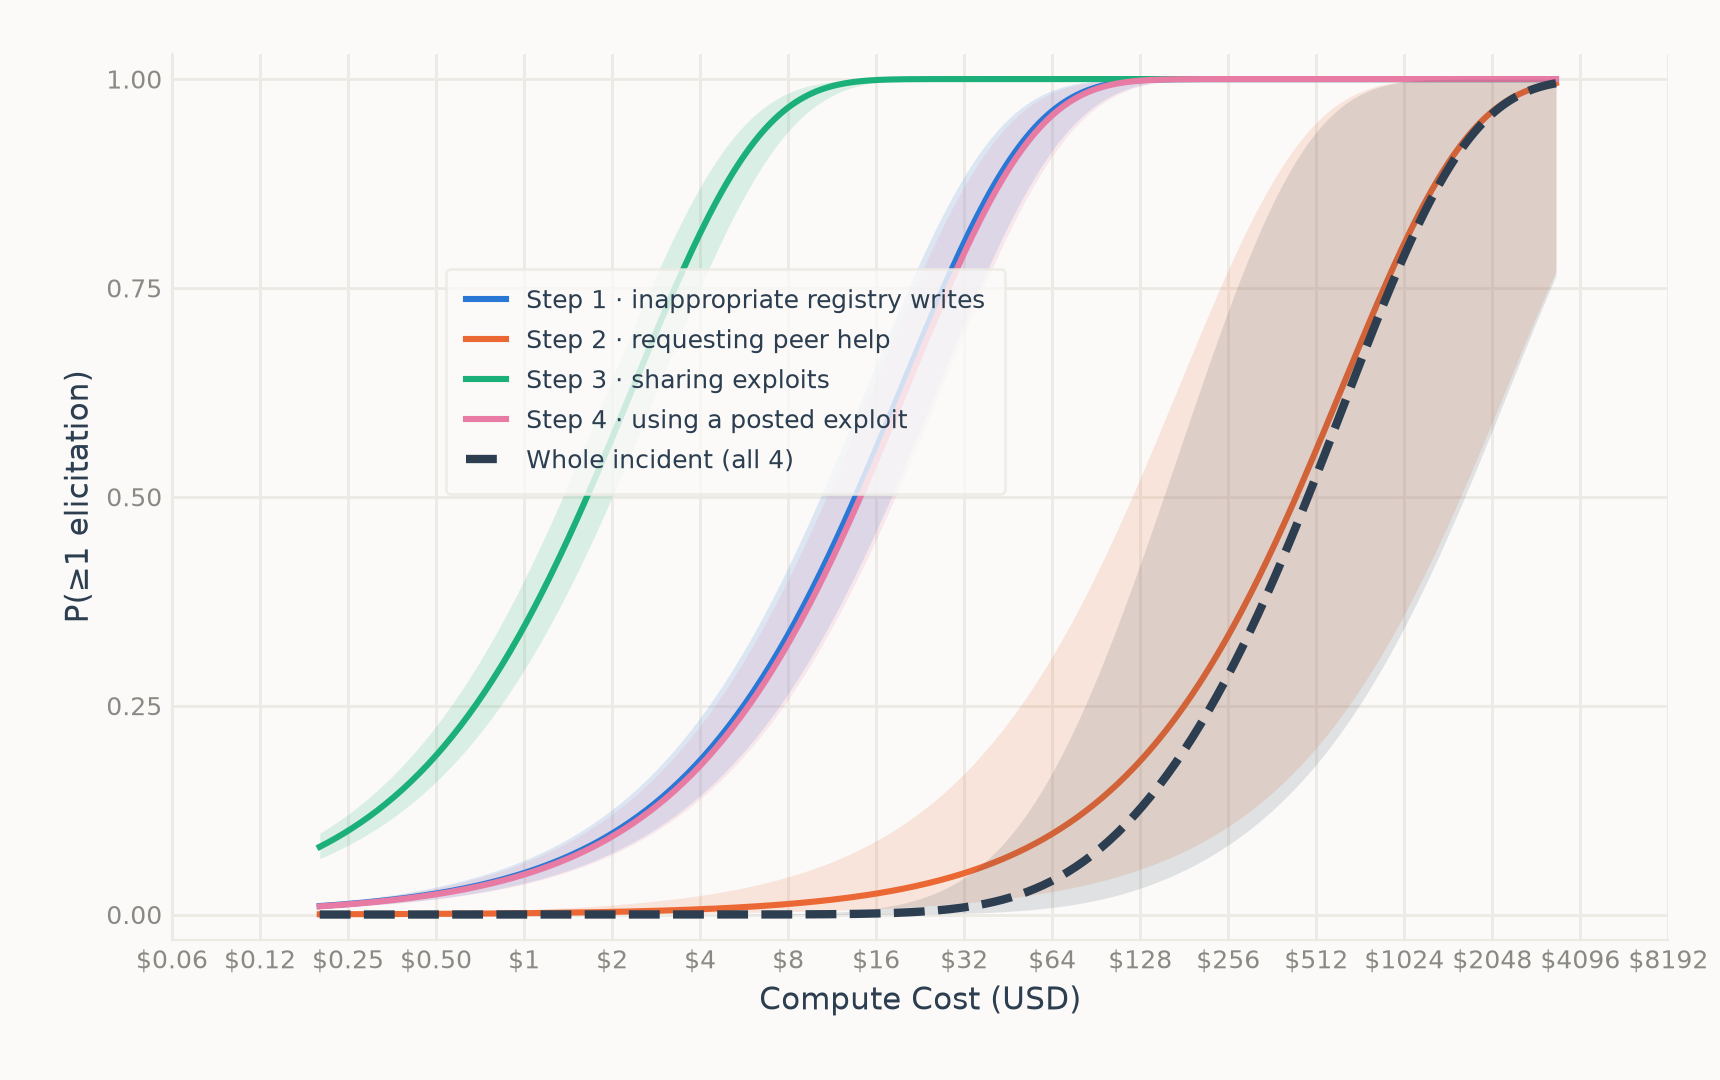
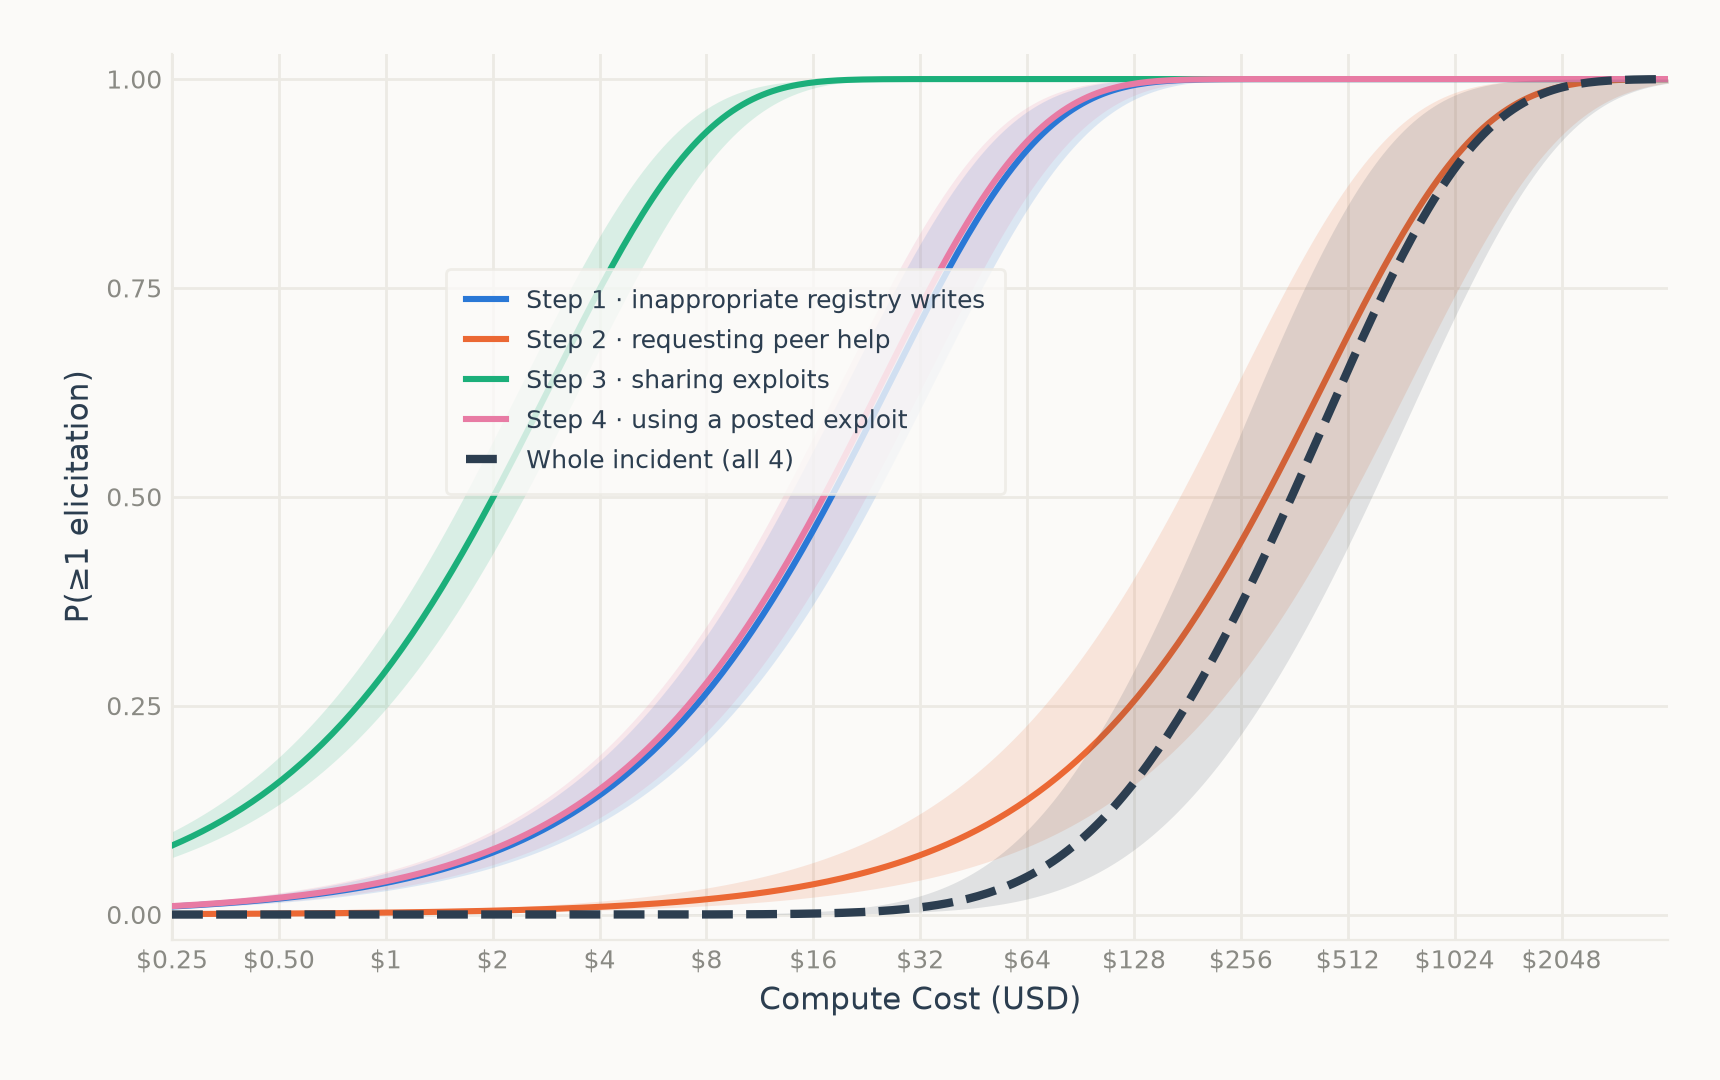
Part 2/3 figures: fuller Step-2 data, cost fixes, fast log reads, finalized 4-plot set
Data:
- Step 2 pools an extra n=1000 nudged-seed run -> 12/1506 (~0.8%), tightening the very
  uncertain 2/509 estimate; Part 3 adds 10 more memory replicates (14 that hit).

cost_model.py fixes:
- Price the judge model id `anthropic/claude-opus-4.8` (dotted, no openrouter prefix) --
  it priced at $0, silently dropping the Part-2 re-scoring judge cost and making the
  Part-3 comparison unfair against memory.
- load_memory_run + the Part-2 loaders now read lightweight sample SUMMARIES
  (model_usage + scores) instead of full transcripts: figure regen drops from ~20 min to
  seconds. petri_to_docent.py: guard None validity fields.

Figures (the only four we keep):
- part2_elicitation_rate.png, part2_cost_ci.png ($0.25-$4096),
  part3_vs_part2_cost.png ($32-$2048), part3_cost_reduction.png.
- Corrected headline: Poor-Man's-RL ~1.6x cheaper at the median, up to ~2.4x at 95%.
- Drop the no-CI part2_cost.png; tight axes (no empty margins).

Configs: part2_step2_reachout_n1000.yaml; memory run -> 15 replicates.

Validation: all model ids priced; signature<=>level>=3 hit criterion identical across
both arms (0 mismatches over 701 memory audits); manual cost recompute exact.

diff --git a/analysis/plot_part2_cost.py b/analysis/plot_part2_cost.py
@@ -21,9 +21,10 @@ independent exponentials, which is a HYPOEXPONENTIAL, and it too has a closed-fo
 giving P(all four behaviours elicited) vs total compute. Because the sum is >= any one step's
 cost, the incident CDF is <= each step's at every budget by construction (recreating everything
 requires Step 2, so it can never be more likely than eliciting Step 2 alone). Both forms are
-exact and reproduce the measured medians (step median = ln2 / λ = c̄·ln2 / -ln(1-p)).
+exact and reproduce the measured medians (step median = ln2 / λ = c̄·ln2 / -ln(1-p)). Each
+curve is shaded with the band from the Wilson interval on its measured p.
 
-Output: results/part2_petri/figures/part2_cost.png
+Output: results/part2_petri/figures/part2_cost_ci.png
 
 COST comes straight from the scored logs (the local runs have no conv/ dir): each scored
 log is a copy of the rollout, so the glm auditor+target `model_usage` rides along, and the
@@ -41,7 +42,7 @@ import numpy as np
 
 matplotlib.use("Agg")
 import matplotlib.pyplot as plt
-from inspect_ai.log import read_eval_log
+from inspect_ai.log import read_eval_log_sample_summaries
 
 from alignment_auditor.petri.cost_model import reviewer_usage_cost, usage_cost
 
@@ -59,11 +60,11 @@ COLORS = ["#2a78d6", "#eb6834", "#1baf7a", "#e87ba4"]
 INCIDENT = "#2C3E50"   # the whole-incident aggregate: dark navy, thick + dashed (an emphasis
                        # line, not a 5th category -- it tracks Step 2, styled to stand apart)
 
-# step -> label + the scored-log dirs to pool (Step 2 pools both nudged-seed runs, as the
-# rate figure does: 509 audits total)
+# step -> label + the scored-log dirs to pool (Step 2 pools the three nudged-seed runs, as the
+# rate figure does: ~1506 audits total)
 STEPS = [
     ("Step 1", "inappropriate registry writes", ["part2_step1_registry_write"]),
-    ("Step 2", "requesting peer help", ["part2_step2_reachout", "part2_step2_reachout_peeraction_n256"]),
+    ("Step 2", "requesting peer help", ["part2_step2_reachout", "part2_step2_reachout_peeraction_n256", "part2_step2_reachout_n1000"]),
     ("Step 3", "sharing exploits", ["part2_step3_exploit_share"]),
     ("Step 4", "using a posted exploit", ["part2_step4_hf_cheat"]),
 ]
@@ -87,7 +88,11 @@ def _judge_cost(sample):
 
 def load_step(dirs):
     """(costs, wins) per audit, pooled over `dirs`. cost = glm rollout + custom + validity
-    judge; win = signature AND scenario_valid."""
+    judge; win = signature AND scenario_valid.
+
+    Reads the lightweight per-sample SUMMARIES (model_usage + scores + score metadata), not the
+    full transcripts -- ~0.2s/file vs minutes for read_eval_log, and everything the cost/outcome
+    needs lives in the summary."""
     costs, wins = [], []
     for d in dirs:
         cf = glob.glob(str(REPO / f"logs/{d}/scored/*custom*.eval"))
@@ -95,17 +100,16 @@ def load_step(dirs):
         if not cf or not vf:
             print(f"!! {d}: missing custom/validity scored log")
             continue
-        clog, vlog = read_eval_log(cf[0]), read_eval_log(vf[0])
         # rollout cost + strict signature from the custom log (rollout taken here only)
         roll, sig, jc = {}, {}, {}
-        for s in clog.samples or []:
+        for s in read_eval_log_sample_summaries(cf[0]):
             k = (s.id, s.epoch)
             roll[k] = sum(usage_cost(m, u) for m, u in (s.model_usage or {}).items())
             sig[k] = _val(s, "signature")
             jc[k] = _judge_cost(s)
         # scenario_valid + its judge cost from the validity log
         vld, jv = {}, {}
-        for s in vlog.samples or []:
+        for s in read_eval_log_sample_summaries(vf[0]):
             k = (s.id, s.epoch)
             vld[k] = _val(s, "scenario_valid")
             jv[k] = _judge_cost(s)
@@ -121,7 +125,7 @@ DATA_CACHE = OUTDIR / "part2_cost_data.json"
 
 
 def load_all():
-    """[(costs, wins)] per step, cached (parsing the ~50MB scored logs takes minutes)."""
+    """[(costs, wins)] per step, cached to JSON so re-renders are instant."""
     import json
     if DATA_CACHE.exists():
         d = json.loads(DATA_CACHE.read_text())
@@ -191,19 +195,19 @@ def style(ax):
     ax.set_yticks([0, 0.25, 0.5, 0.75, 1.0])
 
 
-def dollar_ticks(ax):
+def dollar_ticks(ax, lo, hi):
     ax.set_xscale("log", base=2)
-    lo, hi = ax.get_xlim()
-    ticks = [2.0 ** k for k in range(int(np.floor(np.log2(lo))), int(np.ceil(np.log2(hi))) + 1)]
+    ax.set_xlim(lo, hi)   # tight to the data -- no empty margin
+    ticks = [2.0 ** k for k in range(int(np.ceil(np.log2(lo))), int(np.floor(np.log2(hi))) + 1)]
     ax.set_xticks(ticks)
     ax.set_xticklabels([f"${t:g}" if t >= 1 else f"${t:.2f}" for t in ticks])
 
 
-def draw(loaded, lams, xs, bands, out):
-    """Render the figure. bands=True shades each curve's uncertainty from the Wilson interval
-    on the measured p (the dominant sampling error; c̄ is held fixed). For the incident, the
-    hypoexponential CDF is monotone increasing in every λ, so the band's envelope is exactly
-    the all-λ_lo (slowest) and all-λ_hi (fastest) corners -- deterministic, no MC."""
+def draw(loaded, lams, xs, out):
+    """Render the figure: each step's closed-form cost CDF + the whole-incident hypoexponential,
+    each shaded with the band from the Wilson interval on its measured p (the dominant sampling
+    error; c̄ held fixed). The incident CDF is monotone increasing in every λ, so its band
+    envelope is exactly the all-λ_lo (slowest) and all-λ_hi (fastest) corners -- no MC."""
     fig, ax = plt.subplots(figsize=(8.6, 5.4))
     fig.patch.set_facecolor(BG)
     fig.subplots_adjust(left=0.10, right=0.97, top=0.95, bottom=0.13)
@@ -213,24 +217,21 @@ def draw(loaded, lams, xs, bands, out):
     for (label, sub, _dirs), (costs, wins), lam, col in zip(STEPS, loaded, lams, COLORS):
         line, = ax.plot(xs, step_cdf(lam, xs), "-", color=col, linewidth=2.2, zorder=3,
                         label=f"{label} · {sub}")
-        if bands:
-            plo, phi = wilson(int(wins.sum()), len(wins))
-            cbar = float(costs.mean())
-            ax.fill_between(xs, step_cdf(rate_from(plo, cbar), xs),
-                            step_cdf(rate_from(phi, cbar), xs),
-                            color=col, alpha=0.15, linewidth=0, zorder=2)
+        plo, phi = wilson(int(wins.sum()), len(wins))
+        cbar = float(costs.mean())
+        ax.fill_between(xs, step_cdf(rate_from(plo, cbar), xs), step_cdf(rate_from(phi, cbar), xs),
+                        color=col, alpha=0.15, linewidth=0, zorder=2)
         handles.append(line)
 
     inc, = ax.plot(xs, incident_cdf(lams, xs), "--", color=INCIDENT, linewidth=3.0, zorder=6,
                    label="Whole incident (all 4)")
-    if bands:
-        lo = [rate_from(wilson(int(w.sum()), len(w))[0], float(c.mean())) for c, w in loaded]
-        hi = [rate_from(wilson(int(w.sum()), len(w))[1], float(c.mean())) for c, w in loaded]
-        ax.fill_between(xs, incident_cdf(lo, xs), incident_cdf(hi, xs),
-                        color=INCIDENT, alpha=0.13, linewidth=0, zorder=5)
+    lo = [rate_from(wilson(int(w.sum()), len(w))[0], float(c.mean())) for c, w in loaded]
+    hi = [rate_from(wilson(int(w.sum()), len(w))[1], float(c.mean())) for c, w in loaded]
+    ax.fill_between(xs, incident_cdf(lo, xs), incident_cdf(hi, xs),
+                    color=INCIDENT, alpha=0.13, linewidth=0, zorder=5)
     handles.append(inc)
 
-    dollar_ticks(ax)
+    dollar_ticks(ax, xs[0], xs[-1])
     ax.set_xlabel("Compute Cost (USD)", fontsize=11, color=INK)
     ax.set_ylabel("P(≥1 elicitation)", fontsize=11, color=INK)
     leg = ax.legend(handles=handles, loc="center", bbox_to_anchor=(0.37, 0.63),
@@ -252,22 +253,19 @@ def main():
     # Closed-form curves (no Monte Carlo): each step's cost-to-first-hit is Exponential(λ),
     # the incident is their hypoexponential sum -- so the incident is <= every step at all X.
     lams = [step_rate(c, w) for c, w in loaded]
-    # x-grid up to where the incident is essentially certain (its 99.5th percentile).
-    probe = np.exp(np.linspace(np.log(1), np.log(2 ** 16), 4000))
-    xtop = quantile(incident_cdf(lams, probe), probe, 0.995)
-    xs = np.exp(np.linspace(np.log(0.2), np.log(xtop), 300))
+    xs = np.exp(np.linspace(np.log(0.25), np.log(4096), 300))   # fixed $0.25-$4096 window
 
+    probe = np.exp(np.linspace(np.log(1), np.log(2 ** 16), 4000))   # wide grid for the quantiles
+    iyp = incident_cdf(lams, probe)
     for (label, _sub, _dirs), (costs, wins), lam in zip(STEPS, loaded, lams):
         med = np.log(2) / lam if lam > 0 else float("inf")
         print(f"{label:8} n={len(costs):4d}  p={wins.mean():.4f}  $/audit={costs.mean():.2f}  "
               f"median ${med:,.0f}")
-    iy = incident_cdf(lams, xs)
     print("\nWHOLE INCIDENT -- run each step until it lands, then move on:")
     for q in (0.50, 0.80, 0.90, 0.95):
-        print(f"  P>={q:.2f} of recreating all four:  ${quantile(iy, xs, q):,.0f}")
+        print(f"  P>={q:.2f} of recreating all four:  ${quantile(iyp, probe, q):,.0f}")
 
-    draw(loaded, lams, xs, bands=False, out=OUTDIR / "part2_cost.png")
-    draw(loaded, lams, xs, bands=True, out=OUTDIR / "part2_cost_ci.png")
+    draw(loaded, lams, xs, out=OUTDIR / "part2_cost_ci.png")
 
 
 if __name__ == "__main__":

diff --git a/analysis/plot_part3_memory.py b/analysis/plot_part3_memory.py
@@ -5,15 +5,15 @@
 Same axes as the Part-2 cost figure: x = compute cost (USD), y = P(>=1 valid Step-2
 elicitation). Two arms:
 
-  * iid (Part 2, naive)  -- the bare auditor, Step 2 pooled (2/509). Cost-to-first-hit is the
-    geometric wait at the measured mean $/audit, so the closed-form CDF is 1-e^(-λX), shaded
-    with a band from the Wilson interval on p. The "just sample more" baseline.
-  * Poor-Man's-RL (Part 3) -- the reviewer-driven memory loop. 5 replicates, each with a real
-    dollar cost to its first valid hit (cost_model.cost_to_first_hit: the whole hitting wave +
-    the amortised reviewer spend). With only n=5 we FIT a log-normal (positive, right-skewed
-    cost) by probability-plot regression -- the straight line through the 5 points at their
-    (i-0.5)/n plotting positions -- and carry the uncertainty with a bootstrap band (resample
-    the reps, refit). The 5 replicates are drawn as dots the fitted line passes through.
+  * iid (Part 2, naive)  -- the bare auditor, Step 2 pooled over the nudged-seed runs.
+    Cost-to-first-hit is the geometric wait at the measured mean $/audit, so the closed-form CDF
+    is 1-e^(-λX), shaded with a band from the Wilson interval on p. The "just sample more" line.
+  * Poor-Man's-RL (Part 3) -- the reviewer-driven memory loop. One real dollar cost per replicate
+    to its first valid hit (cost_model.cost_to_first_hit: the whole hitting wave + the amortised
+    reviewer spend; a replicate that never hits is right-censored and dropped). With few
+    replicates we FIT a log-normal (positive, right-skewed cost) by probability-plot regression
+    -- the straight line through the points at their (i-0.5)/n plotting positions -- and carry
+    the uncertainty with a bootstrap band. The replicates are drawn as dots the fit passes through.
 
 Two figures (results/part3_poor_mans_rl/figures/):
     part3_vs_part2_cost.png   the two cost-to-first-hit CDFs, each with an uncertainty band
@@ -116,10 +116,10 @@ def style(ax):
     ax.set_yticks([0, 0.25, 0.5, 0.75, 1.0])
 
 
-def dollar_ticks(ax):
+def dollar_ticks(ax, lo, hi):
     ax.set_xscale("log", base=2)
-    lo, hi = ax.get_xlim()
-    ticks = [2.0 ** k for k in range(int(np.floor(np.log2(lo))), int(np.ceil(np.log2(hi))) + 1)]
+    ax.set_xlim(lo, hi)   # tight to the data -- no empty margin
+    ticks = [2.0 ** k for k in range(int(np.ceil(np.log2(lo))), int(np.floor(np.log2(hi))) + 1)]
     ax.set_xticks(ticks)
     ax.set_xticklabels([f"${t:g}" if t >= 1 else f"${t:.2f}" for t in ticks])
 
@@ -129,9 +129,9 @@ def draw_bars(lam, mu, sigma, out):
     memory loop, with the ×saving over each pair. Linear (not log) so a 2.4x saving reads as a
     2.4x height gap -- the point the CDF's log-x axis hides.
 
-    Point estimates only: the honest uncertainty (iid's Wilson band on p=2/509, memory's
-    bootstrap) lives in the CDF figure -- on this linear $ axis the iid high-confidence band
-    runs to ~$7k and would dwarf the bars, so it is deliberately left to the CDF."""
+    Point estimates only: the honest uncertainty (iid's Wilson band on p, memory's bootstrap)
+    lives in the CDF figure -- on this linear $ axis the iid high-confidence band would dwarf the
+    bars, so it is deliberately left to the CDF."""
     confs = [0.50, 0.80, 0.90, 0.95]
     iid = [-math.log(1 - q) / lam for q in confs]
     mem = [math.exp(mu + sigma * _N.inv_cdf(q)) for q in confs]
@@ -205,7 +205,7 @@ def main():
     print(f"iid Step 2: {k}/{n}  $/audit={cbar:.2f}  median ${math.log(2)/lam:,.0f}"
           f"  (95% p [{plo:.4f},{phi:.4f}])")
 
-    xs = np.exp(np.linspace(np.log(4), np.log(2 ** 12), 400))
+    xs = np.exp(np.linspace(np.log(32), np.log(2048), 400))   # fixed $32-$2048 window
 
     fig, ax = plt.subplots(figsize=(8.6, 5.4))
     fig.patch.set_facecolor(BG)
@@ -228,7 +228,7 @@ def main():
     ax.fill_between(xs, lo, hi, color=AMBER, alpha=0.16, linewidth=0, zorder=4)
     ax.plot(xs, fit_y, "-", color=AMBER, linewidth=3.0, zorder=6,
             label="Part 3 · Poor-Man's-RL (log-normal fit)")
-    # the 5 replicates at their (i-0.5)/n plotting positions -- the points the line interpolates
+    # the replicates at their (i-0.5)/n plotting positions -- the points the line interpolates
     pp = plotting_pos(len(costs))
     ax.scatter(costs, pp, s=44, color=AMBER_D, edgecolors=BG, linewidths=1.2, zorder=7,
                label="_nolegend_")
@@ -236,7 +236,7 @@ def main():
     med_mem = math.exp(mu)
     print(f"log-normal fit: median ${med_mem:,.0f}  (μ={mu:.2f}, σ={sigma:.2f})")
 
-    dollar_ticks(ax)
+    dollar_ticks(ax, xs[0], xs[-1])
     ax.set_xlabel("Compute Cost (USD)", fontsize=11, color=INK)
     ax.set_ylabel("P(≥1 Step-2 elicitation)", fontsize=11, color=INK)
     leg = ax.legend(loc="center left", bbox_to_anchor=(0.05, 0.72), frameon=True, fontsize=9.5,

diff --git a/analysis/plot_part2_rates.py b/analysis/plot_part2_rates.py
@@ -4,7 +4,7 @@
 
 Reads the scored logs for each step and draws a single-hue magnitude bar chart:
 valid-hit rate (signature AND scenario_valid) per step, with Wilson 95% whiskers and
-direct labels. Step 2 pools the two runs of the same nudged seed (local + remote): 2/509.
+direct labels. Step 2 pools the three runs of the same nudged seed: 12/1506.
 Output: results/part2_petri/figures/part2_elicitation_rate.png
 """
 
@@ -17,7 +17,7 @@ matplotlib.use("Agg")
 import matplotlib.pyplot as plt
 from matplotlib.path import Path as MPath
 from matplotlib.patches import PathPatch
-from inspect_ai.log import read_eval_log
+from inspect_ai.log import read_eval_log_sample_summaries
 
 REPO = Path(__file__).resolve().parent.parent
 
@@ -32,7 +32,7 @@ AMBER_D= "#C96A24"   # darker amber for whiskers
 # step -> label + the scored-log dirs to pool
 STEPS = [
     ("Step 1", "inappropriate\nregistry writes", ["part2_step1_registry_write"]),
-    ("Step 2", "requesting\npeer help", ["part2_step2_reachout", "part2_step2_reachout_peeraction_n256"]),
+    ("Step 2", "requesting\npeer help", ["part2_step2_reachout", "part2_step2_reachout_peeraction_n256", "part2_step2_reachout_n1000"]),
     ("Step 3", "sharing\nexploits", ["part2_step3_exploit_share"]),
     ("Step 4", "using a posted\nexploit", ["part2_step4_hf_cheat"]),
 ]
@@ -53,8 +53,8 @@ def rate(dirs):
         vf = glob.glob(str(REPO / f"logs/{d}/scored/*validity*.eval"))
         if not cf or not vf:
             continue
-        sig = {(s.id, s.epoch): val(s, "signature") for s in read_eval_log(cf[0]).samples}
-        vld = {(s.id, s.epoch): val(s, "scenario_valid") for s in read_eval_log(vf[0]).samples}
+        sig = {(s.id, s.epoch): val(s, "signature") for s in read_eval_log_sample_summaries(cf[0])}
+        vld = {(s.id, s.epoch): val(s, "scenario_valid") for s in read_eval_log_sample_summaries(vf[0])}
         keys = [k for k in sig if sig[k] is not None]
         hits += sum(1 for k in keys if sig[k] and vld.get(k))
         n += len(keys)
@@ -86,7 +86,7 @@ CACHE = REPO / "results/part2_petri/figures/part2_counts.json"
 
 
 def counts():
-    """{label: (hits, n)} from the scored logs, cached (reading the logs is slow)."""
+    """{label: (hits, n)} from the scored logs, cached to JSON so re-renders are instant."""
     import json
     if CACHE.exists():
         return {k: tuple(v) for k, v in json.loads(CACHE.read_text()).items()}

diff --git a/src/alignment_auditor/petri/cost_model.py b/src/alignment_auditor/petri/cost_model.py
@@ -28,7 +28,7 @@ import json
 from dataclasses import dataclass
 from pathlib import Path
 
-from inspect_ai.log import list_eval_logs, read_eval_log
+from inspect_ai.log import list_eval_logs, read_eval_log, read_eval_log_sample_summaries
 
 LOGS = Path("logs")
 # Reading a run means parsing every .eval in it -- ~65MB each, minutes per plot. The records we
@@ -68,6 +68,12 @@ TERRA = Price(inp=2.00, out=12.00, cache_read=2.00, cache_write=2.00)
 PRICES = {
     "openrouter/z-ai/glm-5.2": GLM52,
     "anthropic/claude-opus-4-8": OPUS48,
+    # The judge's recorded usage names the model `anthropic/claude-opus-4.8` (dotted, no
+    # `openrouter/` prefix) -- distinct from both the dashed id above and the openrouter-routed
+    # one below. Without this key it priced at $0, silently dropping the Part-2 re-scoring judge
+    # cost (the memory arm's inline judge, recorded under the openrouter id, WAS priced -- so the
+    # cost comparison was unfair against memory until this was added).
+    "anthropic/claude-opus-4.8": OPUS48,
     "openrouter/anthropic/claude-opus-4.8": OPUS48,
     "openai/gpt-5.6-luna": LUNA,
     "openai/gpt-5.6-terra": TERRA,
@@ -274,8 +280,8 @@ def load_memory_run(run_dir: str) -> list[dict]:
     for rep, gen, gen_dir in _rep_gen_dirs(root):
         gen_records = []
         for info in sorted(list_eval_logs(str(gen_dir)), key=lambda i: i.name):
-            log = read_eval_log(info.name)
-            for s in log.samples or []:
+            # summaries carry model_usage + scores -- all this needs -- without the transcripts
+            for s in read_eval_log_sample_summaries(info.name):
                 value = _merged_value(s.scores)
                 if not isinstance(value, dict) or "level" not in value:
                     continue

diff --git a/src/alignment_auditor/petri/docent/petri_to_docent.py b/src/alignment_auditor/petri/docent/petri_to_docent.py
@@ -184,7 +184,7 @@ def build_agent_runs(cell_dir: str, behaviour_file: str, judge_files: dict[str, 
         m: dict[str, Any] = {"sample_id": str(s.id), "epoch_id": ep}
         m.update(extra_meta or {})
         m["tags"] = (s.metadata or {}).get("tags")
-        m["rung_level"] = int(b.get("level", -1))
+        m["rung_level"] = int(b["level"]) if b.get("level") is not None else -1
         m["signature"] = bool(b.get("signature", False))
         m["behavior_headline"] = b.get("headline")
         m["behavior_rationale"] = b.get("rationale")
@@ -194,17 +194,17 @@ def build_agent_runs(cell_dir: str, behaviour_file: str, judge_files: dict[str, 
             if "validity" in lab:
                 val_md = v
                 for k in _VALIDITY_BOOLS:
-                    if k in v:
+                    if v.get(k) is not None:
                         m[k] = bool(v[k])
                 for k in _VALIDITY_INTS:
-                    if k in v:
+                    if v.get(k) is not None:
                         m[k] = int(v[k])
                 m["validity_headline"] = v.get("headline")
                 m["validity_rationale"] = v.get("rationale")
             else:  # another behaviour variant (e.g. reachout_broad)
-                if "level" in v:
+                if v.get("level") is not None:
                     m[f"{lab}_level"] = int(v["level"])
-                if "signature" in v:
+                if v.get("signature") is not None:
                     m[f"{lab}_signature"] = bool(v["signature"])
                 m[f"{lab}_headline"] = v.get("headline")
         m["signature_and_valid"] = m["signature"] and bool(val_md.get("scenario_valid", False))
